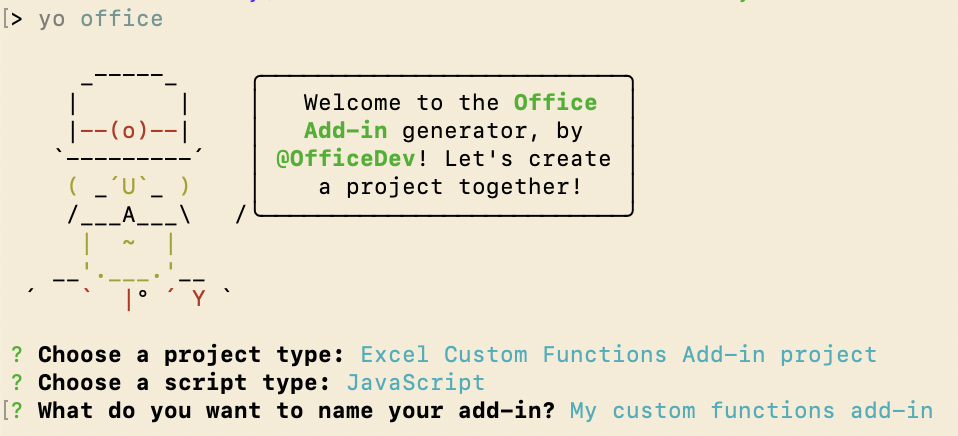
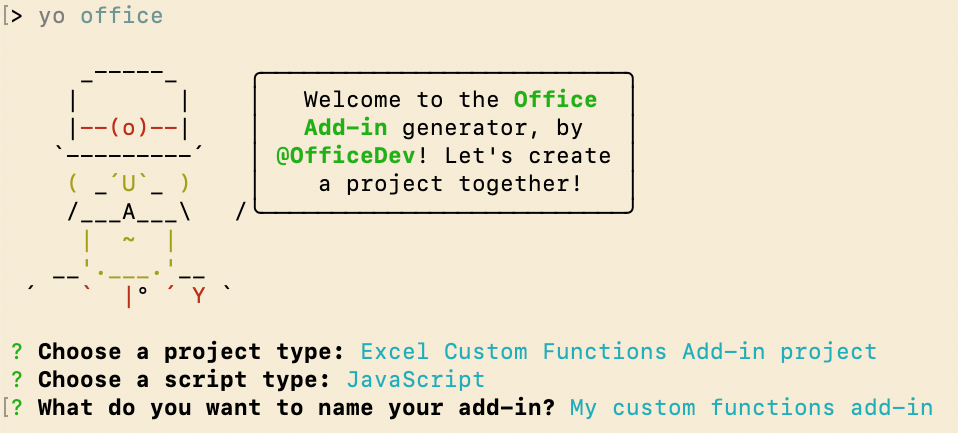
Clean up crop of image, remove last reference to old project name

diff --git a/docs/includes/excel-custom-functions-manually-register.md b/docs/includes/excel-custom-functions-manually-register.md
@@ -6,7 +6,7 @@ If the `CONTOSO` namespace isn't available in the autocomplete menu, take the fo
 
     :::image type="content" source="../images/select-insert.png" alt-text="Screenshot of the Insert ribbon in Excel on Windows, with the My Add-ins down-arrow highlighted.":::
 
-1. In the list of available add-ins, find the **Developer Add-ins** section and select the **starcount** add-in to register it.
+1. In the list of available add-ins, find the **Developer Add-ins** section and select the **My custom functions add-in** add-in to register it.
 
     :::image type="content" source="../images/excel-cf-tutorial-register.png" alt-text="Screenshot of the Insert ribbon in Excel on Windows, with the Excel Custom Functions add-in highlighted in the My Add-ins list.":::
 
